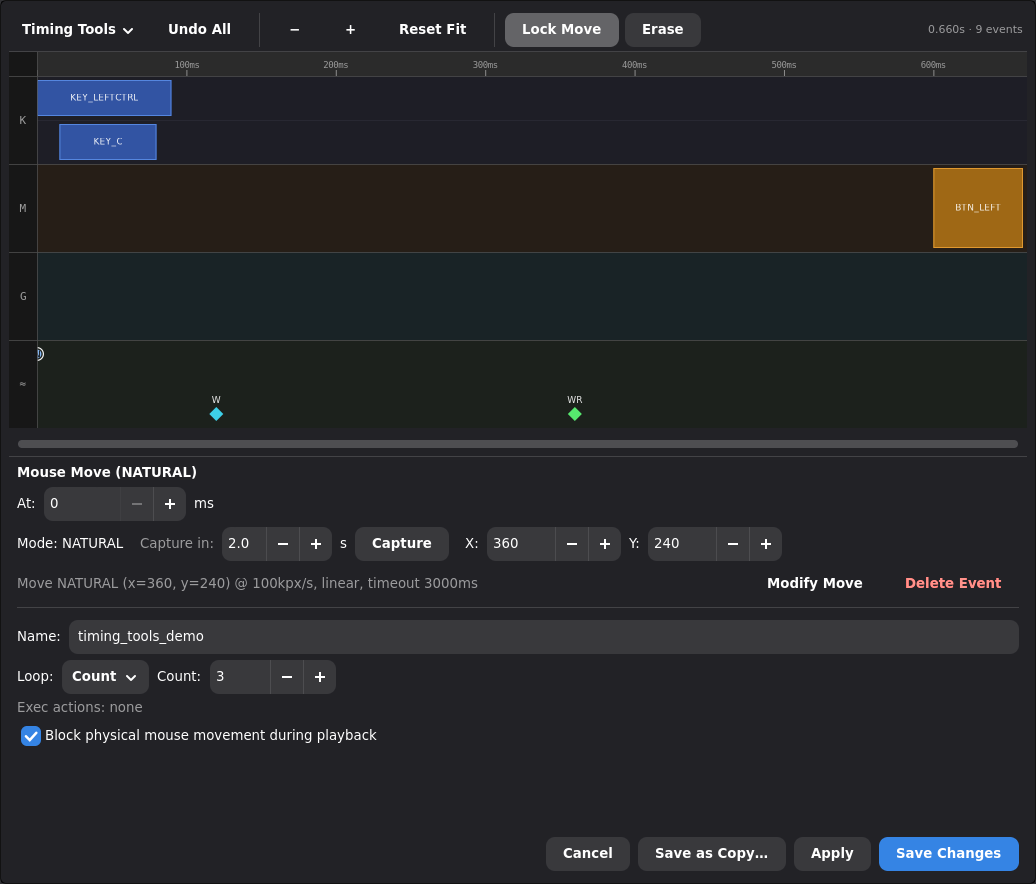
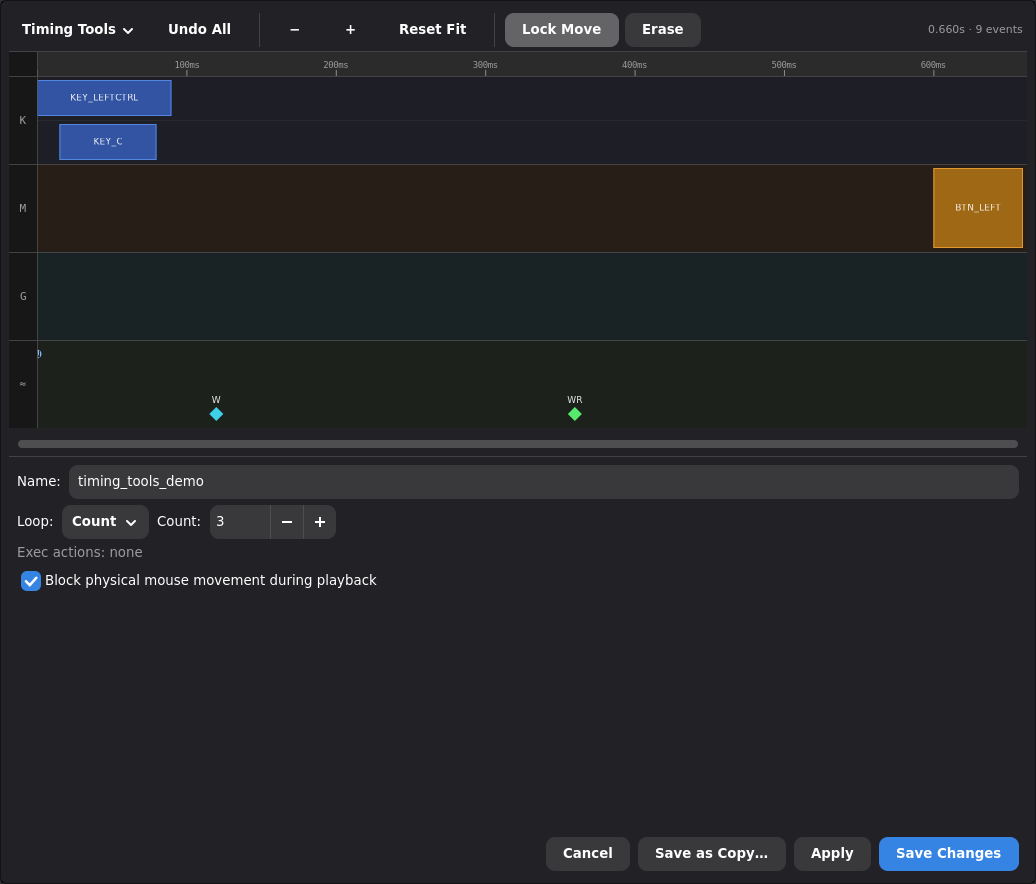
Update macro editor docshots for initial event order
- Keep docshot macro editor selection stable when opening dialogs
- Refresh affected macro editor screenshots

diff --git a/nix/docshots/gui_driver.py b/nix/docshots/gui_driver.py
@@ -1524,7 +1524,7 @@ class DocshotRunner:
         assert self.window is not None
         target = str(shot.get("target", "") or "")
         macro = str(shot.get("macro", "volume_up") or "volume_up")
-        dialog = MacroEditorDialog(self.window, macro)
+        dialog = MacroEditorDialog(self.window, macro, select_initial_event=False)
         dialog.present(self.window)
         self.current_dialog = dialog
         if target == "macro_editor_timing_tools":
